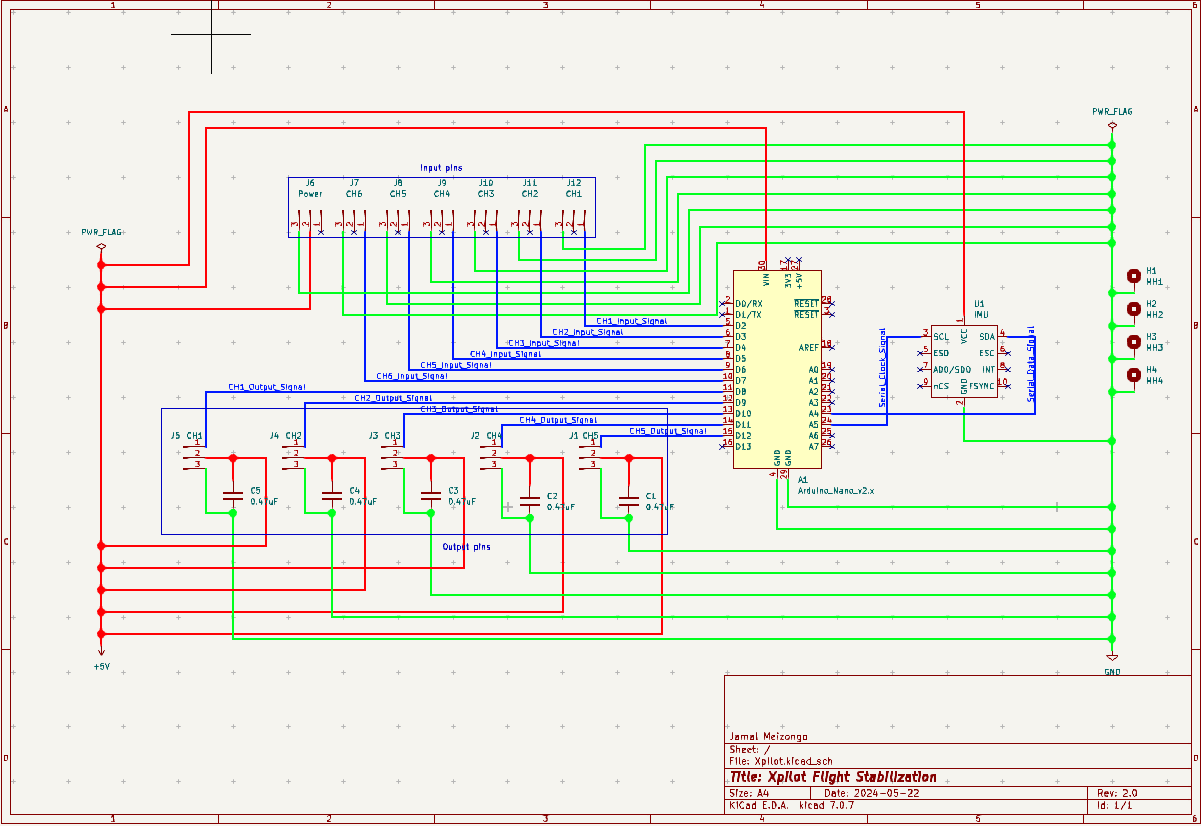
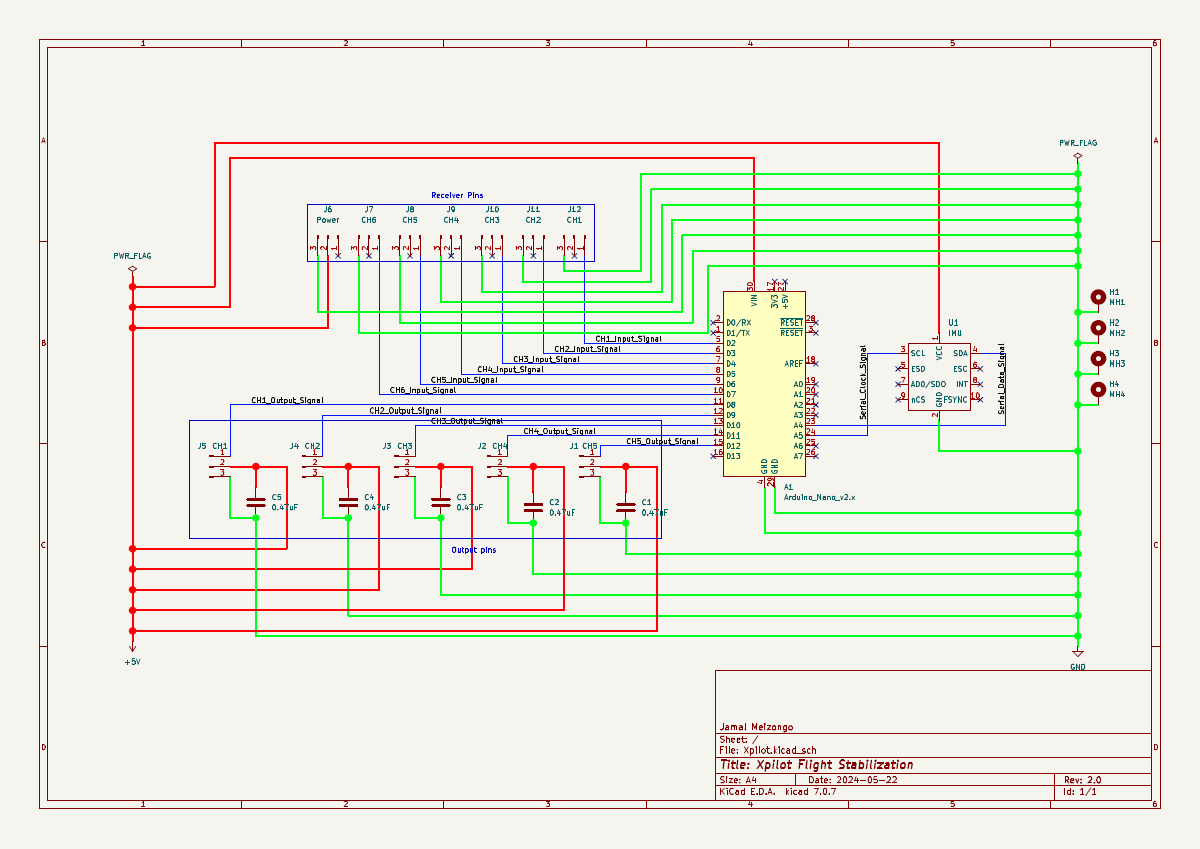
Modified README

diff --git a/README.md b/README.md
@@ -38,21 +38,11 @@ See [DefaultConfig.h](lib/PlaneConfigs/src/DefaultConfig.h) for airplane type co
 
 ## Stabilization system loop
 
-The atmega328p chip is capable of running the entire stabilization loop in ~3ms.  
-This gives us an update frequency of ~333Hz which is more than enough to provide a smooth and responsive control system for slow flying RC planes such as trainers, gliders and some mild acrobatic planes.  
+The main loop and IMU runs at 250Hz.
+This is sufficient for the flight characteristics of the UAV this software was designed for(i.e. slow-to-mild acrobatic).
 
 ## Setup
-
-Connect MPU6050 to Arduino Nano as shown below
-
-| PIN | VALUE |
-| :-: | :---: |
-| VIN |  5v   |
-| GND |  GND  |
-| SCL |  A5   |
-| SDA |  A4   |
-
-Connect receiver to Arduino Nano as shown below. This can be changed in [SystemConfig.h](lib/SystemConfig/src/SystemConfig.h). However changing the input pin numbers will require some modification to the PinChangeInterrupt library.
+### Input
 
 |                                            CHANNEL                                            | PIN |
 | :-------------------------------------------------------------------------------------------: | :-: |
@@ -63,10 +53,7 @@ Connect receiver to Arduino Nano as shown below. This can be changed in [SystemC
 |   AUX2 - FLAPERON (if activated in [DefaultConfig.h](lib/PlaneConfigs/src/DefaultConfig.h))   |  6  |
 | AUX3 - User defined (if activated in [DefaultConfig.h](lib/PlaneConfigs/src/DefaultConfig.h)) |  7  |
 
-Can use both aileron channel outputs to individual aileron servos or both aileron servos can be connected to one aileron channel output using a Y-cable extension.  
-If ailerons are wired independently, they can be used as flaperons by activating USE_FLAPERONS in [DefaultConfig.h](lib/PlaneConfigs/src/DefaultConfig.h)
-Flying wings require individual aileron channel control.  
-Connect ailerons, elevator and rudder servos to Arduino Nano as shown below. This can be changed in [SystemConfig.h](lib/SystemConfig/src/SystemConfig.h).
+### Output
 
 |  CHANNEL  | PIN |
 | :-------: | :-: |
@@ -76,7 +63,7 @@ Connect ailerons, elevator and rudder servos to Arduino Nano as shown below. Thi
 |  Rudder   | 11  |
 | Auxiliary | 12  |
 
-Set up a 3-position switch on the transmitter to act as the Mode switch.  
+### Mode switch
 
 | AUX Switch Position |    Mode     |
 | :-----------------: | :---------: |
@@ -86,8 +73,7 @@ Set up a 3-position switch on the transmitter to act as the Mode switch.
 
 ## Info
 
-These pin numbers with the exception of MPU6050 can be reconfigured in [DefaultConfig.h](lib/PlaneConfigs/src/DefaultConfig.h). However, changing the pins for the channel inputs to Xpilot will require modification of the PinChangeInterrupt library.  
-Ensure all components share a common ground. The Nano and MPU6050 do not require decoupling capacitors as the breakout boards come with their own voltage regulators and decoupling capacitors.
+These pin numbers with the exception of MPU6050 can be reconfigured in [DefaultConfig.h](lib/PlaneConfigs/src/DefaultConfig.h). However, changing the pins for the channel inputs to Xpilot will require modification of the PinChangeInterrupt library.
 
 <p align="center">
   <img src="assets/img/Schematics.png" />
@@ -112,11 +98,13 @@ See [README.md](lib/PlaneConfigs/README.md) for instructions on how to set up co
 
 ## NOTICE
 
-Throttle is always under manual control. Signal wire for throttle goes directly to ESC for motor control.
+Throttle is always under manual control.
 
 Rate/Expo should NOT be used for Rate(2)/Stabilize(3) flight modes. You can however configure Rate/Expo for passthrough(1) flight mode.
 
-Two calibration functions are provided. Uncommenting CALIBRATE runs the calibration function and stores the X, Y, and Z accel/gyro biases in flash memory. Uncommenting CALIBRATE_DEBUG does same and prints out the calibration values in the serial monitor for inspection. Ensure the airplane is on a level surface and held still throughout the calibration process.
+Two calibration functions are provided; CALIBRATE and CALIBRATE_DEBUG.  
+Uncommenting CALIBRATE runs the calibration function and stores the X, Y, and Z accel/gyro biases in flash memory.  
+Uncommenting CALIBRATE_DEBUG does same and prints out the calibration values in the serial monitor for inspection. Ensure the airplane is on a level surface and held still throughout the calibration process.
 
 At any time, you can view the calibrated values on the serial monitor by uncommenting READ_CALIBRATION_FROM_EEPROM in [DefaultConfig.h](lib/PlaneConfigs/src/DefaultConfig.h)
 
